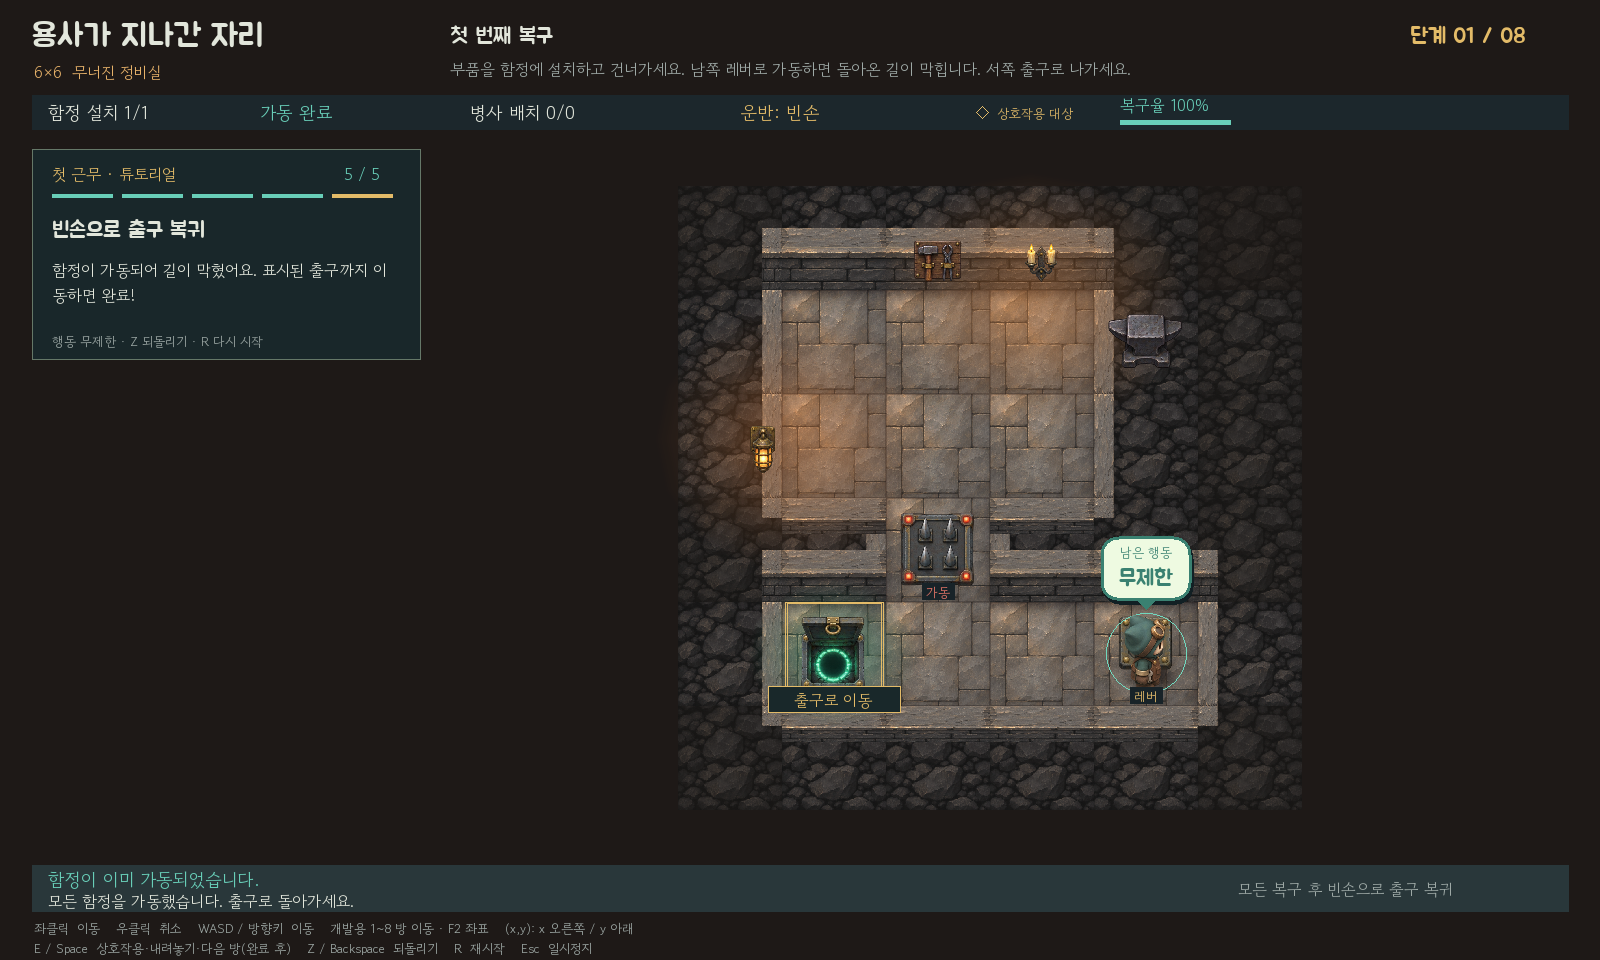
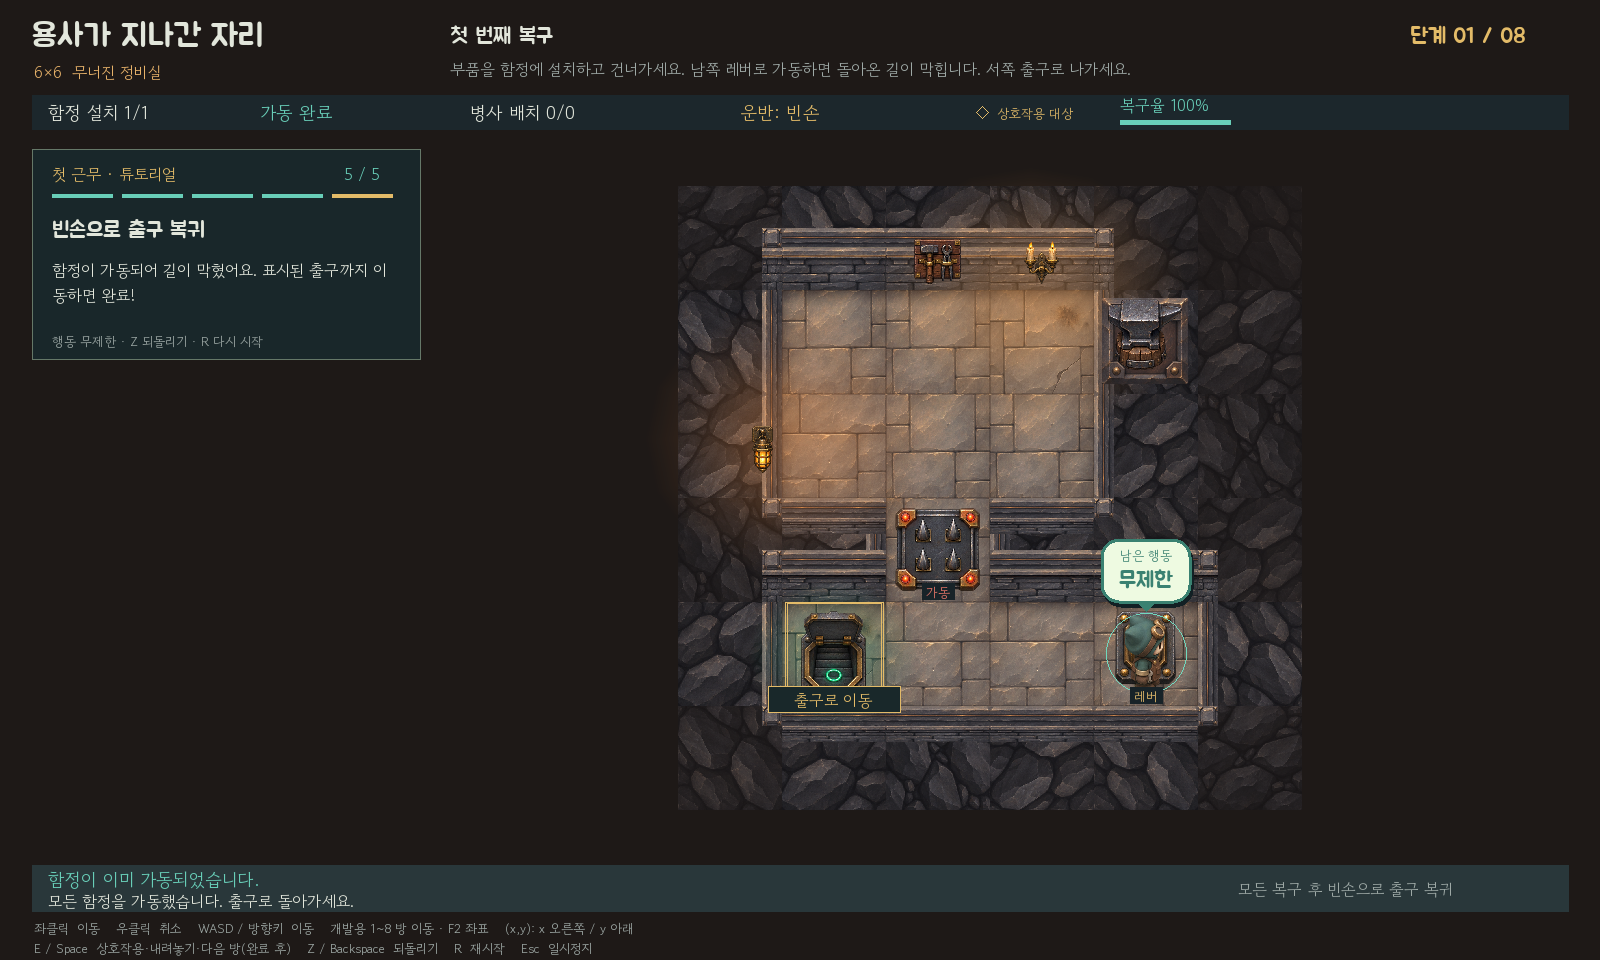
feat: 첫 정비실 지형과 퍼즐 장치 아트 개선

Changed region(s): [[0.4062, 0.1875, 0.8125, 0.8438], [0.4375, 0.7812, 0.5, 0.8438], [0.4062, 0.75, 0.4375, 0.7812]]

diff --git a/game/topdown_workshop.py b/game/topdown_workshop.py
@@ -9,6 +9,12 @@ from game.layout import HEIGHT
 
 
 _RING = tuple((cos(index * pi / 8), sin(index * pi / 8)) for index in range(16))
+FLOORS = ("workshop_floor_ashlar", "workshop_floor_slate", "workshop_floor_ashlar",
+          "workshop_floor_slate", "workshop_floor_scorched")
+SPRITES = {name: f"workshop_{name}" for name in (
+    "trap_broken", "trap_installed", "trap_active", "exit_closed", "exit_ready",
+    "lever_off", "lever_on", "part", "anvil", "lantern", "candle_sconce", "tool_rack",
+)}
 
 
 def radial_layer(x, y, width, height, color, alpha):
@@ -33,8 +39,12 @@ def radial_layer(x, y, width, height, color, alpha):
     p.SDL_RenderGeometry(p.renderer, None, mesh, len(vertices), triangles, len(indices))
 
 
-def panel(art, name, left, bottom, width, height):
-    art.draw(name, left + width / 2, bottom + height / 2, width, height_scale=height / width)
+def panel(art, name, left, bottom, width, height, *, vertical=False):
+    x, y = left + width / 2, bottom + height / 2
+    if vertical:
+        art.draw(name, x, y, height, height_scale=width / height, angle=pi / 2)
+    else:
+        art.draw(name, x, y, width, height_scale=height / width)
 
 
 def wall_rim(art, board, pos, floors):
@@ -48,9 +58,9 @@ def wall_rim(art, board, pos, floors):
     north, west, east, south = ((x, y - 1) in floors, (x - 1, y) in floors,
                                  (x + 1, y) in floors, (x, y + 1) in floors)
     if west:
-        panel(art, "workshop_cap", left, bottom, rim, size)
+        panel(art, "workshop_cap", left, bottom, rim, size, vertical=True)
     if east:
-        panel(art, "workshop_cap", left + size - rim, bottom, rim, size)
+        panel(art, "workshop_cap", left + size - rim, bottom, rim, size, vertical=True)
     if north:
         panel(art, "workshop_face", left, bottom + size - rim - face * .5, size, face * .5)
         panel(art, "workshop_cap", left, bottom + size - rim, size, rim)
@@ -65,9 +75,9 @@ def wall_rim(art, board, pos, floors):
         corner = left if direction < 0 else left + size - rim
         if not south and (x + direction, y + 1) in floors:
             panel(art, "workshop_face", corner, bottom, rim, face)
-            panel(art, "workshop_cap", corner, bottom + face, rim, rim)
+            panel(art, "workshop_corner", corner, bottom + face, rim, rim)
         if not north and (x + direction, y - 1) in floors:
-            panel(art, "workshop_cap", corner, bottom + size - rim, rim, rim)
+            panel(art, "workshop_corner", corner, bottom + size - rim, rim, rim)
 
 
 def floor_shadows(center, size, north, west, east):
@@ -97,7 +107,8 @@ def draw_terrain(art, board, level, exit_ready):
                 pos = x, y
                 center = board.screen(pos)
                 if pos in floors:
-                    art.draw("workshop_floor", *center, size)
+                    floor = FLOORS[(x * 7 + y * 3) % len(FLOORS)]
+                    art.draw(floor, *center, size)
                     floor_shadows(center, size, (x, y - 1) not in floors, (x - 1, y) not in floors,
                                   (x + 1, y) not in floors)
                     sx, sy = center
@@ -105,11 +116,13 @@ def draw_terrain(art, board, level, exit_ready):
                                      31, 24, 26, 68)
                 else:
                     distance = min((abs(x - fx) + abs(y - fy) for fx, fy in floors), default=3)
-                    art.draw("workshop_rock", *center, size, opacity=max(.24, 1 - .32 * (distance - 1)))
+                    rock = "workshop_rock_chipped" if (x + y * 2) % 3 == 0 else "workshop_rock"
+                    art.draw(rock, *center, size, angle=((x * 3 + y) % 4) * pi / 2,
+                             opacity=max(.14, .77 - .28 * (distance - 1)))
                     wall_rim(art, board, pos, floors)
         # 뒤쪽 촛불과 왼쪽 등불이 복구 통로를 비춘다.
-        radial_layer(*board.screen((2.9, .63)), size * 1.53, size * 1.28, (241, 139, 60), 86)
-        radial_layer(*board.screen((.65, 1.94)), size * 1.40, size * 1.33, (235, 128, 53), 83)
+        radial_layer(*board.screen((2.9, .63)), size * 1.56, size * 1.33, (249, 161, 78), 92)
+        radial_layer(*board.screen((.65, 1.94)), size * 1.49, size * 1.37, (245, 141, 63), 88)
         if exit_ready:
             radial_layer(*board.screen(level.exit), size * .84, size * .72, (54, 191, 141), 83)
     finally:

diff --git a/game/topdown.py b/game/topdown.py
@@ -151,6 +151,7 @@ def draw_board(view, game, board, now, beam_segments, powered, rotations, gate_s
              and state.soldiers == level.posts and state.carrying is None)
     entries = device_entries(game, gate_statuses, powered, ready, view.plate_depths)
     workshop = level.id == "stage_01"
+    sprites = topdown_workshop.SPRITES if workshop else {}
     player = view.player_position(state.player, now)
     view.hit_regions.clear()
     view.hit_masks.clear()
@@ -178,13 +179,19 @@ def draw_board(view, game, board, now, beam_segments, powered, rotations, gate_s
                 x, y = mount["cell"]
                 if workshop:
                     x, y = (x + .32, y + .04) if x == 0 else (x, y + .23)
-                art.draw(DECOR[key], *board.screen((x, y)), size * .46)
+                sprite = DECOR[key]
+                art.draw(sprites.get(sprite, sprite), *board.screen((x, y)), size * .46)
         for decoration in scene["decorations"]:
             key = decoration["sprite"]
             if key in DECOR:
-                art.draw(DECOR[key], *board.screen(tuple(decoration["cell"])), size * .72)
+                sprite = DECOR[key]
+                x, y = board.screen(tuple(decoration["cell"]))
+                if workshop and sprite == "anvil":
+                    art.draw("workshop_plinth", x, y, size * .83)
+                    y += size * .06
+                art.draw(sprites.get(sprite, sprite), x, y, size * .72)
     if workshop and (3, 0) in level.walls:
-        art.draw("candle_sconce", *board.screen((3, .24)), size * .38)
+        art.draw("workshop_candle_sconce", *board.screen((3, .24)), size * .42)
 
     for pos, (sprite, _, _) in entries.items():
         sx, sy = board.screen(pos)
@@ -202,11 +209,13 @@ def draw_board(view, game, board, now, beam_segments, powered, rotations, gate_s
             art.draw("post_empty", sx, sy, size * .79)
             art.draw(sprite, sx, sy, size * .64)
         else:
-            art.draw(sprite, sx, sy, size * .72)
+            art.draw(sprites.get(sprite, sprite), sx, sy, size * (.82 if workshop else .72))
 
     for pos, kind in state.items.items():
         sx, sy = board.screen(pos)
-        art.draw(ITEMS[kind], sx + (size * .22 if pos in entries else 0), sy + size * .04, size * .47)
+        sprite = ITEMS[kind]
+        art.draw(sprites.get(sprite, sprite), sx + (size * .22 if pos in entries else 0), sy + size * .04,
+                 size * (.54 if workshop else .47))
     for pos in state.rubble:
         position, height = view.rubble_pose(game, pos, now)
         sx, sy = board.screen(position)
@@ -222,7 +231,8 @@ def draw_board(view, game, board, now, beam_segments, powered, rotations, gate_s
              height_scale=view.worker_height(tired, now))
     if state.carrying:
         dx, dy = DIRECTIONS[facing]
-        art.draw(ITEMS[state.carrying], px + dx * size * .27, py - dy * size * .27, size * .32)
+        sprite = ITEMS[state.carrying]
+        art.draw(sprites.get(sprite, sprite), px + dx * size * .27, py - dy * size * .27, size * .32)
     head = py + size * (.35 if workshop else .29)
     view.place_action_badge(game, px, head, now)
     view.worker_effort((px - size * .3, py - size * .27, px + size * .3, head), tired, now)

diff --git a/assets/topdown_v2/README.md b/assets/topdown_v2/README.md
@@ -1,13 +1,13 @@
 # 탑다운 플레이 에셋
 
-화면의 수평·수직 축에 맞춘 정사각 격자용 스프라이트입니다. 내장 ImageGen으로 원화 여섯 장을 만들고, 아틀라스 여섯 장에 스프라이트 84개를 담았습니다.
+화면의 수평·수직 축에 맞춘 정사각 격자용 스프라이트입니다. 현재 게임은 내장 ImageGen 원화를 가공한 아틀라스 7장의 스프라이트 101개를 읽습니다.
 
 - 지형 16개는 여덟 방의 이동 바닥과 막힌 벽을 구분합니다.
 - 장치 16개는 함정, 출구, 레버, 작업대, 발판, 연결문, 초소, 잔해의 상태를 표현합니다.
 - 소품 16개는 운반물, 투입·배출구, 마력 장치, 윈치, 인부와 방 장식을 포함합니다.
 - 수리공 16프레임은 네 방향마다 대기, 걷기 두 프레임, 운반 자세를 제공합니다.
 - 벽 장식과 소품 16개는 석관, 촛대, 화로, 펌프, 현수막, 등불, 공구 걸이 등을 표현합니다.
-- 1번 정비실의 바닥, 윗돌, 벽 앞면, 바깥 암석 4개를 따로 그려 통로의 높이를 표현합니다. 벽 윤곽과 등불 조명은 [Dungeon and Puzzles의 플레이 화면](https://nekolyst.com/games/dungeon-and-puzzles/)을 참고했습니다.
+- 1번 정비실에는 바닥·윗돌·벽 앞면·기둥 모서리·암석·모루 받침 9개와 함정·출구·레버·부품·벽 장식 12개를 따로 제작했습니다. 벽 윤곽과 등불 조명은 [Dungeon and Puzzles의 플레이 화면](https://nekolyst.com/games/dungeon-and-puzzles/)을 참고했습니다.
 
 거울의 반사면과 화살표는 생성한 회전대 위에 현재 반사 각도로 그립니다. [원화 프롬프트](source/prompts.json)에 각 시트의 셀 순서와 수리공 참조를 기록했습니다.
 
